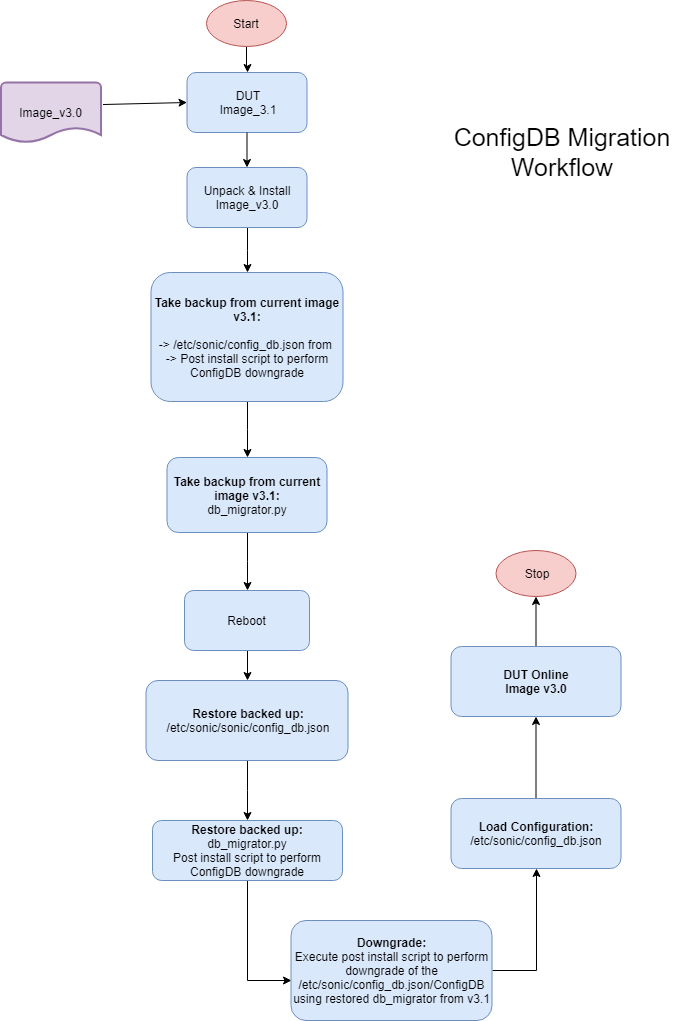
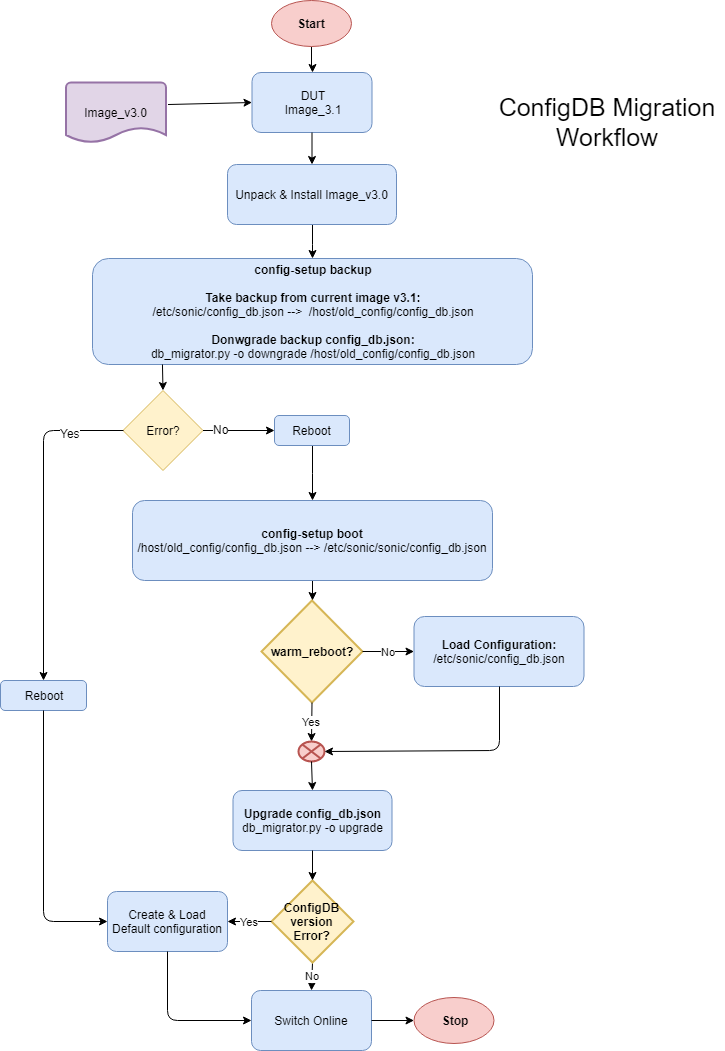
Re-worked the feature based on the provided review comments

diff --git a/manageability/config-setup.md b/manageability/config-setup.md
@@ -276,6 +276,223 @@ On every switch bootup, the config-setup service starts and detects if a startup
 
 
 
+### 2.2.4 ConfigDB Migration
+
+The configuration state of a SONiC switch is stored in a file */etc/sonic/config_db.json* in JSON format. During bootup, the contents of the */etc/sonic/config_db.json* are loaded into the RedisDB which is called ConfigDB. 
+
+
+
+#### 2.2.4.1 ConfigDB Version
+
+The contents of the ConfigDB are assigned a version using the following format:
+
+```
+Table: VERSIONS
+Key: DATABASE
+Field: VERSION
+Value: version_x_y_z
+```
+
+**RedisDB dump**
+
+```
+128.127.0.0.1:6379[4]> hgetall VERSIONS|DATABASE
+1) "VERSION"
+2) "version_1_0_3"
+127.0.0.1:6379[4]>
+```
+
+**JSON Representation**
+
+```
+"VERSIONS": {
+    "DATABASE": {
+        "VERSION": "version_1_0_3"
+    }
+}
+```
+
+
+
+In the Enterprise SONiC distributed by Broadcom, the following policy is implemented while assigning ConfigDB version numbers. 
+
+**Format:      version\_&lt;major-number&gt;&lt;\_minor-number&gt;\_&lt;db-version-id&gt;**
+
+ **major-number** : Same as the major Enterprise SONiC release, the code version belongs to. E.g 3, 4. This will act as a quick reference to the major Enterprise SONiC release where this ConfigDB version was introduced.
+
+**minor-number** : Same as the minor Enterprise SONiC release, the code version belongs to. E.g 1 in 3.1, 0 in 3.0.5. This will act as a quick reference to the  minor Enterprise SONiC release version where this ConfigDB version was introduced.
+
+**db-version-id** : A number starting from 1 which is serially incremented with every ConfigDB version change.
+
+
+
+*Note: The above versioning policy will be implemented starting from Enterprise SONiC release 3.1 onwards. The ConfigDB versions from the previous releases (e.g version_1_0_1, version_1_0_2) will be left as is.*
+
+
+
+The ConfigDB versions used by Enterprise SONiC will not align with the ConfigDB versions used by the community SONiC. As a result any attempts of configuration migration to/from Enterprise SONiC from/to community SONiC will result in unexpected failures. It is advised that users can either use the --skip_migration option when installing a SONiC image or install the image from the ONIE prompt.
+
+
+
+#### 2.2.4.2 ConfigDB Version Map
+
+The ConfigDB version map is used to identify the ConfigDB version of a given Enterprise SONiC release version. This version map also serves as a lookup table to determine what is the least Enterprise SONiC version to which the current switch configuration can be migrated to.
+
+
+
+The ConfigDB version map is stored in a JSON format in the file */etc/sonic/config_db_versions.json*. The below is an example.
+
+
+
+```
+{
+  "CONFIG_DB_VERSIONS": {
+    "VERSION_MIN": "version_1_0_2",
+    "VERSION_LATEST": "version_4_0_1"
+  },
+  "SONIC_VERSIONS": {
+    "2.x": {
+          "config_db_version": "version_1_0_1"
+    },
+    "3.0.x": {
+          "config_db_version": "version_1_0_2"
+    },
+    "3.1.0": {
+          "config_db_version": "version_3_1_1"
+    },
+    "3.1.1_RC4": {
+          "config_db_version": "version_3_1_2"
+    },
+    "3.1.1": {
+          "config_db_version": "version_3_1_3"
+    },
+    "3.2.4": {
+          "config_db_version": "version_3_2_1"
+    },    
+    "4.x": {
+      "config_db_version": "VERSION_LATEST"
+    },
+    "x": {
+      "config_db_version": "VERSION_LATEST"
+    }
+  }
+}
+```
+
+
+
+**CONFIG_DB_VERSIONS** - A map used to store the least supported by the SONiC image for a ConfigDB version for configuration migration. It also stores the latest ConfigDB version that is currently known to be in use.
+
+
+
+**SONIC_VERSIONS** - A map whose keys represent the Enterprise SONiC versions and values represent the corresponding ConfigDB version introduced in the respective Enterprise SONiC version. To reduce the number of entries in the version map, only versions where a ConfigDB version change has happened are specified. An 'x' is used to represent a wildcard match. For e.g "2.x" represents all the Enterprise SONiC versions starting from 2.0 to the latest maintenance release version 2.1.3 (as on 7/29/2020).
+
+Given an Enterprise SONiC version, the closest Enterprise SONiC version in the versions map which is less than the given version is used to determine the ConfigDB version.
+
+
+
+Consider the before mentioned ConfigDB versions map file, the following are a few examples:
+
+| Enterprise SONiC Version to Query | Matching index in the ConfigDB versions map | ConfigDB Version |
+| --------------------------------- | ------------------------------------------- | ---------------- |
+| 2.1.2                             | 2.x                                         | version_1_0_1    |
+| 3.0.6                             | 3.0.x                                       | version_1_0_2    |
+| 3.1.1_RC7                         | 3.1.1_RC4                                   | version_3_1_2    |
+| 3.2.3                             | 3.1.1                                       | version_3_1_3    |
+| 3.2.7                             | 3.2.4                                       | version_3_2_1    |
+| 5.1                               | x                                           | version_4_0_1    |
+
+
+
+The match criteria used is from most specific (e.g "3.2.4") to least specific (e.g  "x"). The release candidate releases are treated numerically less than the final GA version.  For example, 3.1.1 > 3.1.1_RC7 > 3.1.1_RC4. 
+
+
+
+It is to be noted that given a Enterprise SONiC version string there are only two possibilities when searching the ConfigDB version map:
+
+- A compatible ConfigDB version is found
+- The Enterprise SONiC version is determined to be *UNSUPPORTED* for Configuration Migration after comparing with the CONFIG_DB_VERSIONS["VERSION_MIN"]
+
+
+
+**VERSION_LATEST** - The latest ConfigDB version that is currently known to be in use.
+
+
+
+#### 2.2.4.3 ConfigDB Version Upgrade
+
+The ConfigDB version of the /etc/sonic/config_db.json file should be less than or equal to the version of the ConfigDB supported by a SONiC version. This allows all applications to consume data in an expected format. The supported version of the ConfigDB is set by the *db_migrator.py* tool which is provided by the *python-sonic-utilities* package. The *db_migrator.py* reads the contents of the ConfigDB and performs the necessary upgrade to the target version of the ConfigDB using the defined migration functions in the tool. The *db_migrator.py* was originally designed to perform ConfigDB migration from an older version to a new version. Such a migration scenario is seen when users install a newer version of SONiC which contains a different table/key layout compared to the older version where the *config_db.json* is being migrated from.
+
+
+
+No restrictions are expected to be placed while upgrading from a lesser version of ConfigDB to a larger (newer) version of the ConfigDB contents. Any such restrictions advertised in the Release notes of a certain version of Enterprise SONiC should be treated as an exception.
+
+
+
+#### 2.2.4.4 ConfigDB Version Downgrade
+
+Consider the case where a user is currently on the latest version of SONiC (v3.1) which is using *version_3_1_1* of ConfigDB. The user plans to migrate to an older version of SONiC (v3.0) which uses an older version of ConfigDB, *version_1_0_2*. For a seamless transition from SONiC v3.1 to SONiC v3.0. it will require that the contents of the saved configuration file *config_db.json* be downgraded to a compatible version (*version_1_0_2*). The knowledge of the ConfigDB *version_3_1_1* is only available in the *db_migrator.py* of SONiC v3.1. The intended target ConfigDB version information (*version_1_0_2*) is available only after the SONiC v3.0 image boots. There is also a use case where users would want to perform a warm-reboot after installing SONiC v3.0.
+
+
+
+To allow downgrading of a ConfigDB from a newer version to an older version, the *db_migrator.py* tool is enhanced to support:
+
+- Migration API's to transform ConfigDB from Version_N to Version_N-1. This is used during warm-reboot as the contents of ConfigDB are restored from a saved RedisDB snapshot file (RDB) instead of the *config_db.json* file.
+- Migration API's to transform config_db.json from Version_N to Version_prev_N
+
+
+
+*Note: Version_prev_N is an indicative reference to a valid release number which will be used as a step to reach a final target version. The next version number may not necessarily be the next sequential version. The next step version chosen will depend on the downward migration logic implemented and the time when the intermediate versions were introduced.*
+
+The below workflow is used by the db_migrator tool to downgrade SONiC configuration.
+
+![DB Migration](images/db_migrator_downgrade.png)
+
+
+
+#### 2.2.4.5 ConfigDB Version Migration Process
+
+When a SONiC image is installed,  the configuration migration scripts are executed as described in the [section 2.2.2 Config Migration](#222-config-migration). As part of the configuration backup step, the *config_db.json* is downgraded to match the ConfigDB version of the newly installed image. If the target ConfigDB version is *unsupported*, then configuration backup process is aborted and none of the switch configuration is migrated to the newly installed image. In the case where the target ConfigDB version could not be determined, the target ConfigDB version is assumed to be the same version as the current version read from the *config_db.json* file. If the *config_db.json* file does not have a ConfigDB version defined, the version is determined to be the CURRENT_VERSION defined in the *db_migrator.py* tool.
+
+
+
+If the user wants to perform a warm-reboot as part of a new SONiC image installation, the *db_migrator.py* tool is used to downgrade the ConfigDB contents in the RedisDB instance before saving them into a RDB file. During the new image bootup, the RDB file contents are restored and are expected to be in a compatible format.
+
+
+
+It is important to note that the ConfigDB downgrade process executes on the image where a new image is being installed. The idea is to prepare (downgrade) the backup configuration such that when the installed image boots, the configuration is in a compatible format. If  any error is observed while processing the ConfigDB data during bootup of the new image, the switch uses factory default configuration. If the ZTP feature is available and enabled, the switch starts ZTP discovery to download the switch configuration. This allows the switch to be online and accessible to the user at all times.
+
+
+
+ The below flow diagram explains the configuration migration flow during a SONiC version downgrade.
+
+
+
+![ConfigDB_VersionMigration](images/ConfigDB_VersionMigration.png)
+
+
+
+#### 2.2.4.6 Restrictions
+
+1.  ConfigDB version downgrade is not supported when using private feature branch based builds or user compiled builds. It is always assumed that the SONiC image uses the VERSION_LATEST ConfigDB version. For example: A switch is currently using the build version broadcom_sonic_3.x_200728_1800 which uses the ConfigDB *version_3_1_2*. The user then tries to install an earlier code version broadcom_sonic_3.x_200727_0600 which uses a ConfigDB *version_3_1_1*.  When configuration migration steps are being performed, the target build version broadcom_sonic_3.x_200727_0600  will not find a better specific match in the ConfigDB versions map. Instead it will match against the least specific match "x" which corresponds to the ConfigDB *version_3_1_2*. When the user boots into the image version broadcom_sonic_3.x_200727_0600, the DB initialization fails and will result in the switch to come up with default switch configuration. This restriction is not considered as a requirement because this is a likely scenario to happen in a lab/test environment. The configuration migration and especially the downgrade scenario is more relevant to well defined builds.
+
+
+
+2. The Enterprise SONiC images which follow standard build naming conventions as defined in the [Enterprise SONiC versioning document](https://github.com/BRCM-SONIC/sonic_doc_private/blob/master/release_documents/BROADCOM_SONiC_Versioning.md) will support ConfigDB version downgrades. The following are the types of builds that will be supported and corresponding example
+
+
+- Enterprise SONiC Release builds
+
+  - SONiC-OS-3.0.3-Enterprise_Advanced
+
+- Enterprise SONiC Release candidate builds
+
+  - SONiC-OS-3.0.1_RC6-Enterprise_Advanced
+- Daily builds
+  - SONiC-OS-sonic_3.1_daily_200727_0600_415
+
+
+
 ## 2.3 CLI
 Following are the commands supported by the config-setup tool. These are Linux shell commands.
 
@@ -302,23 +519,52 @@ This command is executed as part of system bootup by the config-setup service. U
 # 3 Unit Tests
 
 1. Install SONiC firmware image on an empty disk using ONIE or similar bare metal provisioning tool. Verify that a factory default configuration is created.
+
 2. Delete startup-config and reboot the switch. Verify that a factory default configuration is created.
+
 3. Install a new SONiC firmware image using the "sonic_installer install" command and reboot the switch to boot into the newly installed image. Verify that the startup-config file used in the old SONiC firmware is restored to be used by the new image.
+
 4. When ZTP is enabled, verify that the ZTP configuration is loaded when the SONiC switch boots without a startup-config. Factory default config does not get created in this case.
+
 5. Verify that the updategraph service takes over the config creation role if it is enabled and SONiC switch boots without a startup-config.
+
 6. Verify that the user specified config-setup-factory hooks are executed when the switch boots without a startup-config.
+
 7. Verify that the user specified config-migration-pre hooks are executed when a new SONiC firmware image is installed.
+
 8. Verify that when the switch boots into a newly installed SONiC image, the user specified config-migration-post hooks are executed.
+
 9. Verify that the exit status of the user defined hooks is correctly read and reported by the config-setup service in syslog. If the hook script is syntactically incorrect, it will be reported with failed exit status.
+
 10. When the switch boots with a saved startup-config, verify that the config-setup service does not perform any additional actions.
+
 11. Verify that the user can execute the "config-setup factory" command manually without requiring a switch reboot.
+
 12. Verify that the user can execute the "config-setup backup" command multiple times so that any new configuration file changes are picked up again.
+
 13. Verify that when a config-setup hook script issues a switch reboot, all the hook scripts previously executed are not executed again upon subsequent  switch boot.
+
 14. Verify that config-migration hook scripts are executed even when the switch boots in warm boot mode. This will allow scripts to perform any actions required for some applications which are not covered by the warm boot functionality.
+
 15. Verify that config-setup-factory hook scripts are not executed when switch boots in warm boot mode.
+
 16. Verify that the config-migration-pre and config-migration-post hook scripts are automatically migrated to the newly installed image.
+
 17. Verify that the config-migration-pre and config-migration-post hook scripts migrated to the newly installed image do not overwrite hook scripts with same name in the newly installed image.
+
 18. Verify that the installer migration scripts provided as part of the SONiC installer image are executed after the executing the hooks defined in config-migration-pre. This action is performed by the *config-setup backup* command.
+
+19. Verify ConfigDB downgrade migration across two major releases where there is a ConfigDB version change
+
+20. Verify ConfigDB downgrade migration across two manor releases within a major release where there is a configDB version change
+
+21. Verify ConfigDB downgrade migration between daily builds across two different releases where there is a configDB version change
+
+22. Verify that when ConfigDB downgrade migration fails, the switch boots with a default configuration when ZTP is disabled or switch performs ZTP discovery if ZTP is enabled
+
+23. Verify that the ConfigDB downgrade migration is restricted by the minimum version specified in the ConfigDB map file
+
+    
 
 # 4 Appendix
 
@@ -347,72 +593,3 @@ When a new SONiC switch image is installed using the "sonic_installer install" c
 ```
 
 After the SONiC switch is rebooted to boot into the newly installed image, the /etc/config-setup/config-migration-post-hooks.d/01-local-users-post script is executed which reads the files in /host/backup/users_info directory and migrates contents of the backed up data to the Linux root filesystem of newly installed user. After migrating the user data, the directory /host/backup/users_info is removed.
-
-
-
-
-## 4.2 Config DB Version Migration
-
-The configuration state of a SONiC switch is stored in a file */etc/sonic/config_db.json* in JSON format. During bootup, the contents of the */etc/sonic/config_db.json* are loaded into the RedisDB which is called ConfigDB. 
-
-The contents of the ConfigDB are assigned a version using the following format:
-
-```
-Table: VERSIONS
-Key: DATABASE
-Field: VERSION
-Value: version_x_y_z
-```
-
-
-
-**RedisDB dump**
-
-```
-128.127.0.0.1:6379[4]> hgetall VERSIONS|DATABASE
-1) "VERSION"
-2) "version_1_0_3"
-127.0.0.1:6379[4]>
-```
-
-
-
-**JSON Representation**
-
-```
-"VERSIONS": {
-    "DATABASE": {
-        "VERSION": "version_1_0_3"
-    }
-}
-```
-
-
-
-The ConfigDB version of the /etc/sonic/config_db.json file should be less than or equal to the version of ConfigDB supported by an SONiC version. This allows all applications to consume data in an expected format. The supported version of ConfigDB is set by the *db_migrator.py* tool provided by the *python-sonic-utilities* package. The db_migrator.py reads the contents of ConfigDB and performs the necessary upgrade to the target version of the ConfigDB using the defined migration functions in the tool. The *db_migrator.py* was originally designed to perform ConfigDB migration from an older version to a new version. Such a migration scenario is seen when users install a newer version of SONiC which contains a different table/key layout compared to the older version where the *config_db.json* is being migrated from.
-
-
-
-Consider the case where a user is currently on the latest version of SONiC (v3.1) which is using *version_1_0_3* of ConfigDB. The user plans to migrate to an older version of SONiC (v3.0) which uses an older version of ConfigDB, *version_1_0_2*. For a seamless transition from SONiC v3.1 to SONiC v3.0. it will require that the contents of the saved configuration file *config_db.json* that is being migrated needs to be downgraded to a compatible version (*version_1_0_2*. The knowledge of the ConfigDB *version_1_0_3* is only available in the db_migrator.py of SONiC v3.1. The intended target ConfigDB version information (*version_1_0_2*) is available only after the SONiC v3.0 image boots. There is also a use case where users would want to perform a warm-reboot after installing SONiC v3.0.
-
-
-
-To allow downgrading of a ConfigDB from a newer version to an older version, the *db_migrator.py* tool is enhanced to support:
-
-- Migration API's to transform ConfigDB from Version_N to Version_N-1. This is used during warm-reboot as the contents of ConfigDB are restored from a saved RedisDB snapshot file (RDB) instead of the *config_db.json* file.
-- Migration API's to transform config_db.json from Version_N to Version_N-1
-
-
-
-The below work flow is used by the db_migrator tool to downgrade SONiC configuration.
-
-![DB Migration](images/db_migrator_downgrade.png)
-
-
-
-A new installer migration hook is introduced to take backup of the *db_migrator.py*. Refer to the [section 2.2.2 Config Migration](#222-config-migration). A new post-config migration hook is also introduced which makes use of the backed up *db_migrator.py* to perform the ConfigDB/config_db.json downgrade operation. This allows the transfer of new ConfigDB information from a previous active image to a newly installed image. The post-config migration hook is also transferred to the newly installed image. This allows the configuration downgrade feature to be supported in the older SONiC releases. The below flow diagram explains the configuration migration flow during a SONiC version downgrade which involves downgrade of ConfigDB version as well.
-
-
-
-![ConfigDB_VersionMigration](images/ConfigDB_VersionMigration.png)
-
